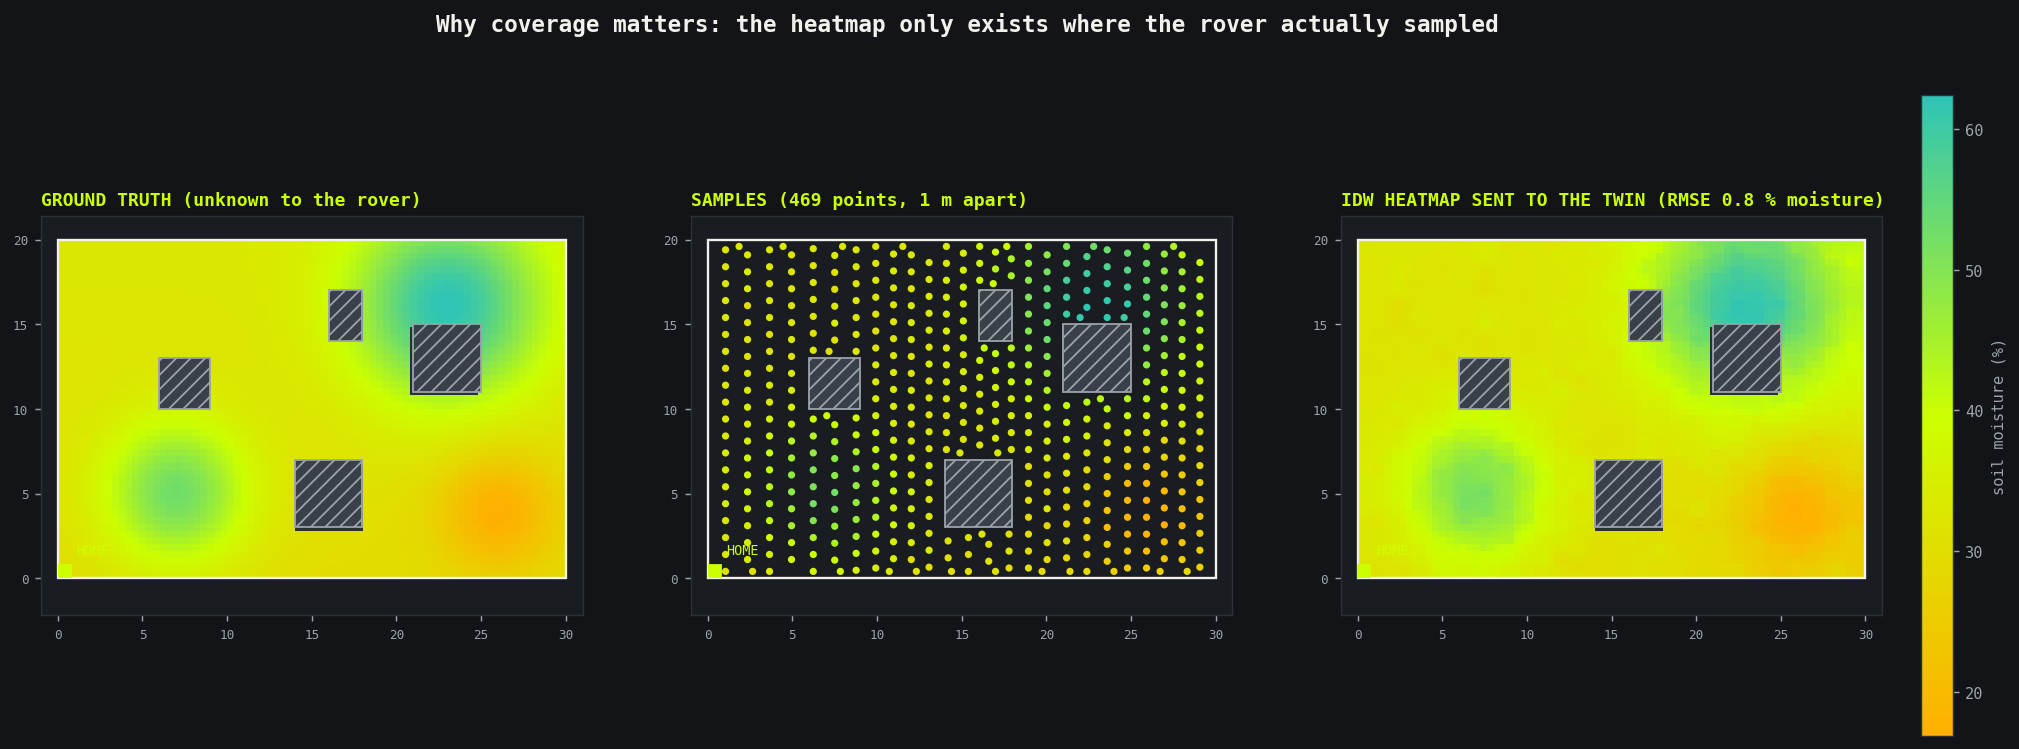
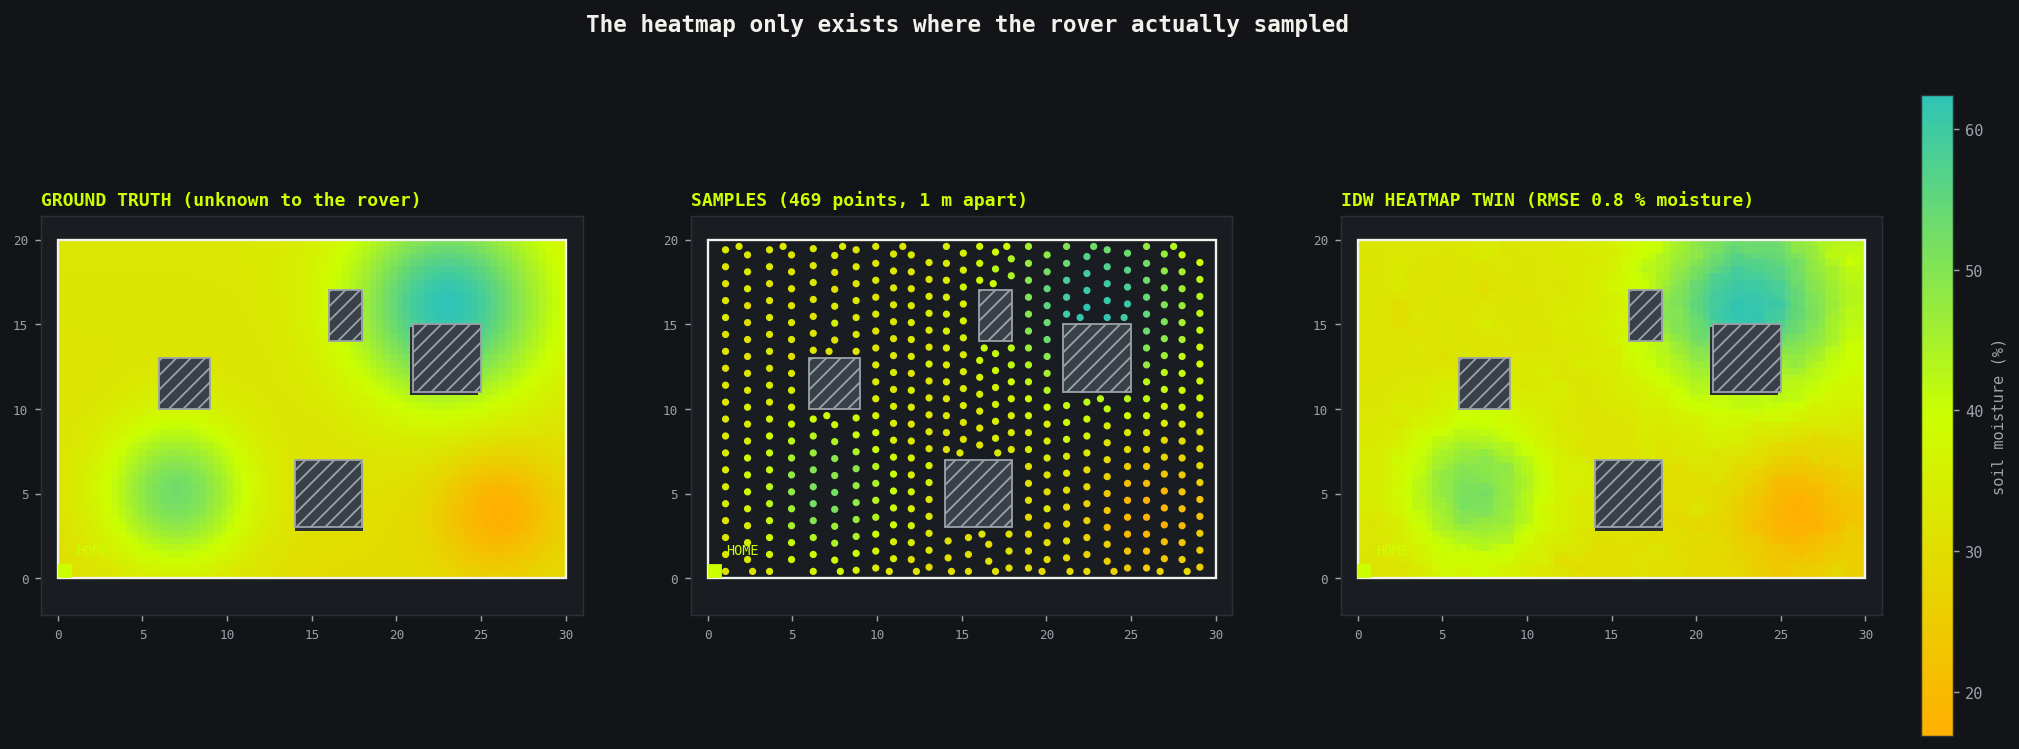
readme.md

Changed region(s): [[0.2184, 0.0, 0.7489, 0.0614], [0.7177, 0.2457, 0.9361, 0.2764]]

diff --git a/TravelAlg/Readme.md b/TravelAlg/Readme.md
@@ -11,7 +11,7 @@ Run:
 ```
 
 ### Needs only numpy and matplotlib.
-
+---
 ## What this script does (same order as the console output):
     STEP 1  Inputs: field rectangle, obstacles, home pose, robot parameters
     STEP 2  Configuration space: shrink the field by the robot radius (headland)
